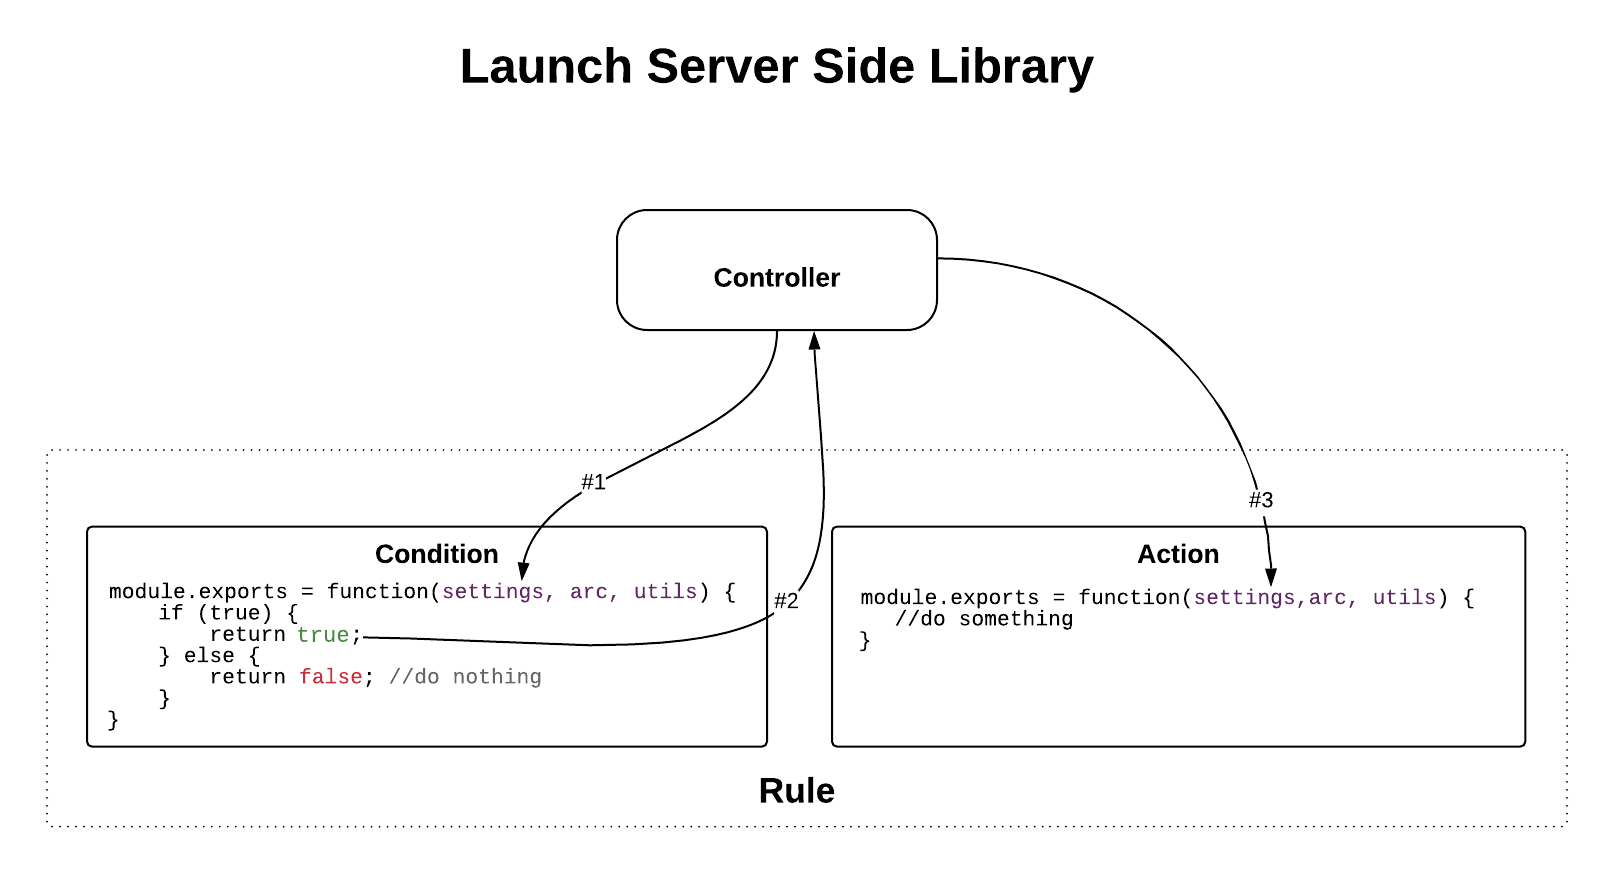
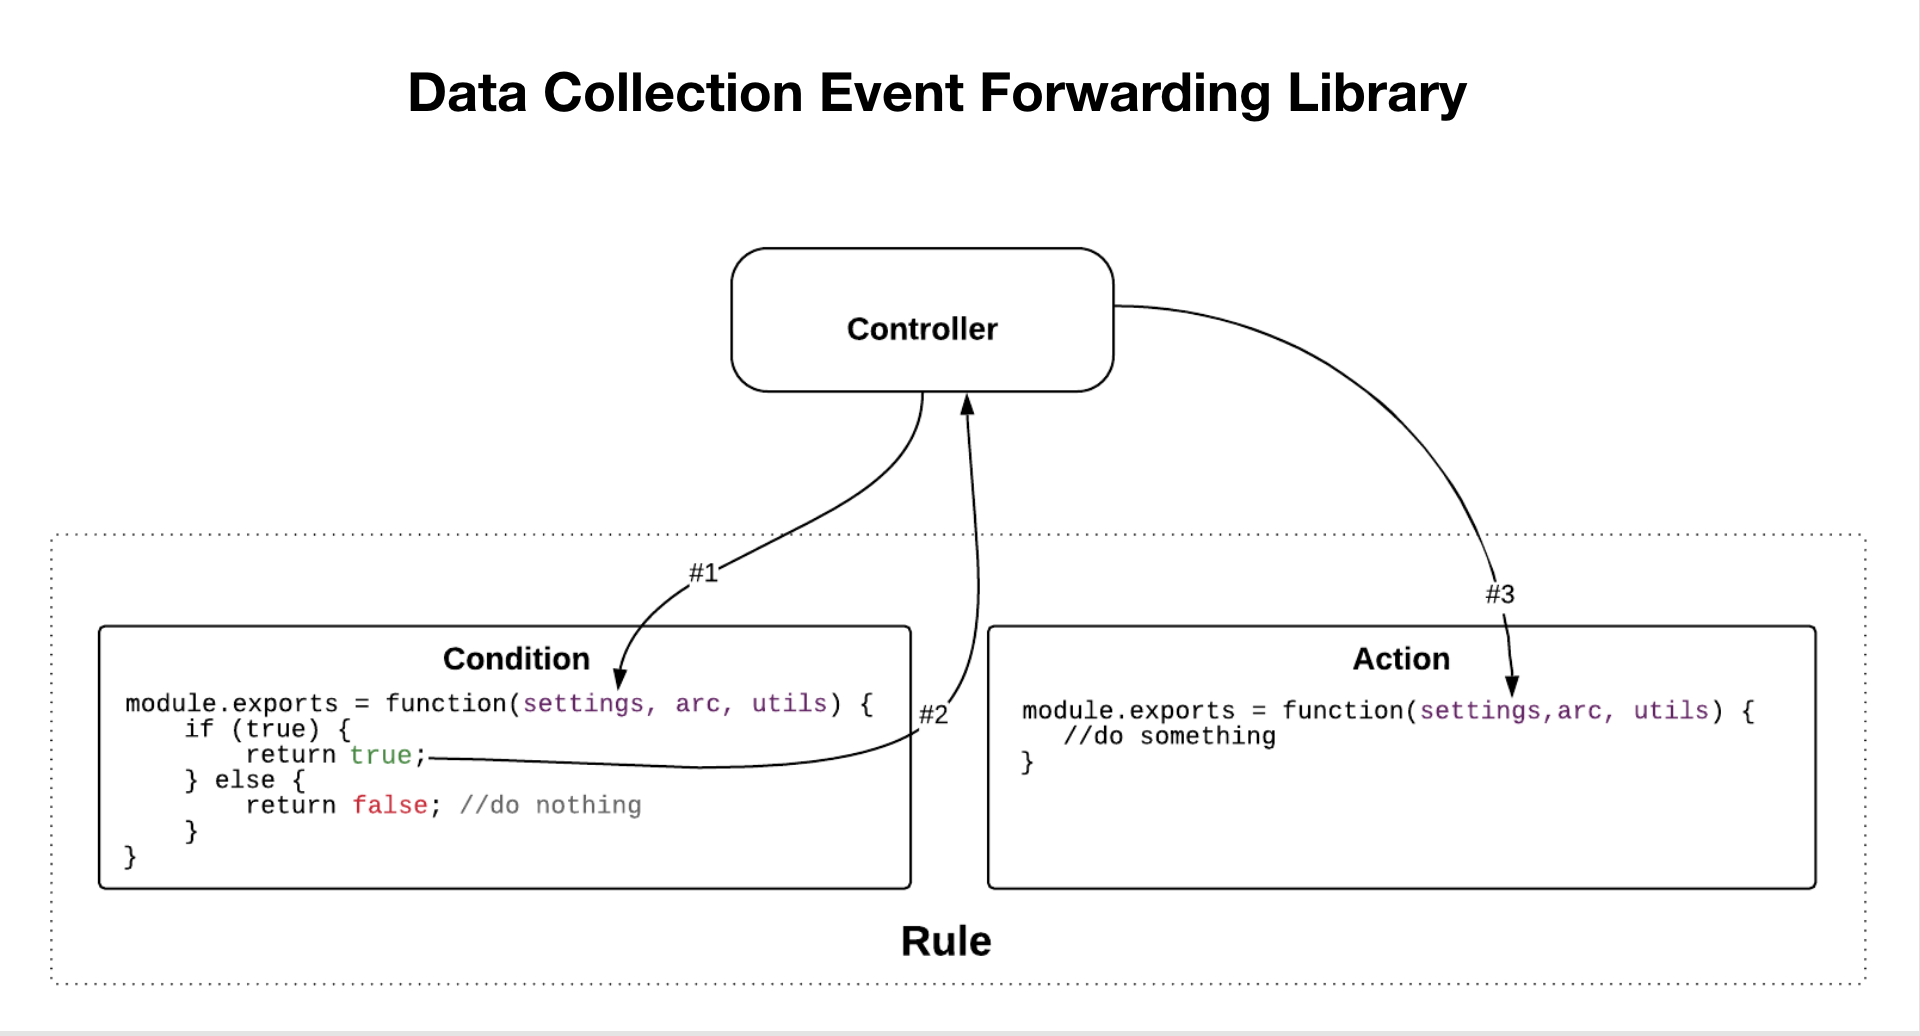
Updated content and metadata in line with tags branding guidelines. Image also retitled.

diff --git a/help/extension-dev/edge/flow.md b/help/extension-dev/edge/flow.md
@@ -1,13 +1,13 @@
 ---
 title: Edge Extension Flow
-description: Learn how the components of an Adobe Experience Platform Launch edge extension interact with each other at runtime.
+description: Learn how the components of an Adobe Experience Platform Data Collection edge extension interact with each other at runtime.
 exl-id: 1c026502-5d78-4ada-961b-c323125f8cfe
 ---
 # Edge extension flow
 
 In edge extensions, each condition, action, and data element type has both a view which allows users to modify settings and a library module to act upon those user-defined settings.
 
-As the following high-level diagram shows, the extension's action type view is shown inside an iframe within the application integrated with Adobe Experience Platform Launch. The user then uses the view to modify settings which are then saved to Platform Launch's data storage. When the Platform Launch runtime library is built, both the extension's action type library module as well as the user-defined settings will be included in the runtime library that gets deployed to the edge node. At runtime, Platform Launch injects the user-defined settings into the library module.
+As the following high-level diagram shows, the extension's action type view is shown inside an iframe within the application integrated with Adobe Experience Platform Data Collection. The view is then used to modify settings which are then saved within Data Collection. When the tags runtime library is built, both the extension's action type library module as well as the user-defined settings will be included in the runtime library that gets deployed to the edge node. User-defined settings from Data Collection are injected into the library module at runtime.
 
 ![extension flow diagram](../images/flow/edge/event-processing-flow.png)
 
@@ -18,7 +18,7 @@ In the following diagram you can see the link between events, conditions and act
 The rule processing flow contains the following phases:
 
 1. The `settings` and the `trigger` method are provided to the event library module at startup.
-1. When the event library module determines the event has occurred, the event library module calls `trigger`.
-1. Platform Launch passes `settings` into the rule’s condition-type library modules where conditions are then evaluated.
-1. Each condition type returns whether a condition evaluates to true.
-1. If all conditions pass, the rule’s actions are executed.
+2. When the event library module determines the event has occurred, the event library module calls `trigger`.
+3. Data Collection passes `settings` into the rule’s condition-type library modules where conditions are then evaluated.
+4. Each condition type returns whether a condition evaluates to true.
+5. If all conditions pass, the rule’s actions are executed.
